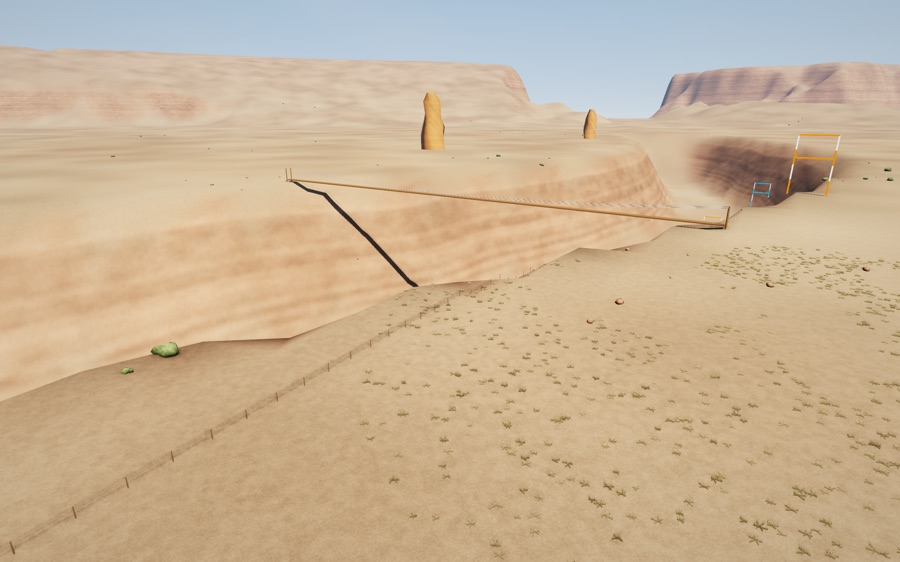
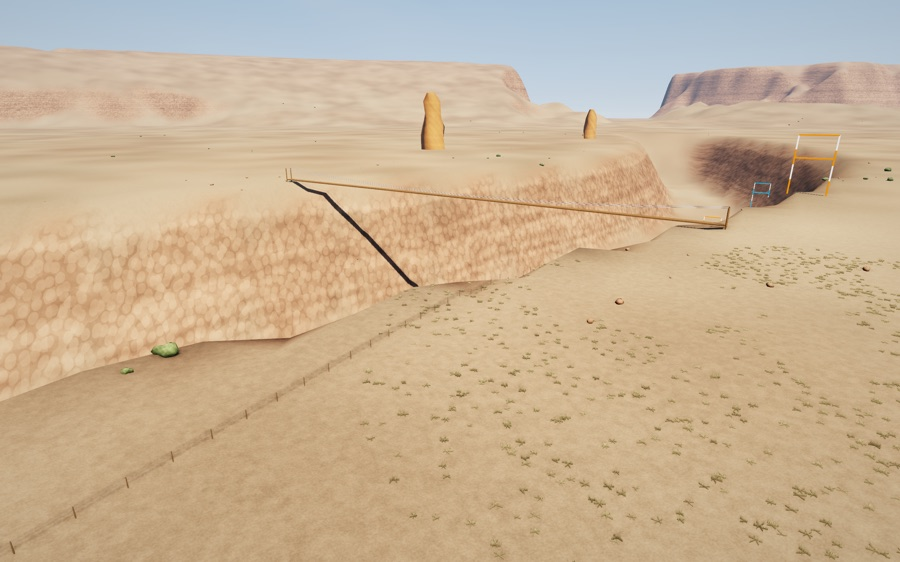
A smoke button in the display, and richer surfaces everywhere
The bar at the top right has a button for smoke next to the one for the
view. Surfaces: windows get frames, a glazing bar, the sky in the glass
and rain marks under the sills; offices and towers stand on shopfronts
with name boards; houses have shutters; roofs are tiled in courses and
timber is boarded. The ground is drawn by what it is: clumped turf,
rippled sand, glinting snow, stony earth, concrete slabs, cobbles, and
fractured rock on steep slopes. Kept close to the old frame cost.

diff --git a/Sources/FormationFlightX/Shaders.swift b/Sources/FormationFlightX/Shaders.swift
@@ -64,6 +64,13 @@ static float fbm5(float2 p) {
     for (int i = 0; i < 5; i++) { s += a * vnoise(p); p = p * 2.07 + 13.0; a *= 0.5; }
     return s / 0.96875;
 }
+/// The cheap kind of cell, for use on every pixel of the ground: one point to a grid square, moved off centre.
+/// x = distance to it, y = a number belonging to the square. Warp `p` first so the squares do not show.
+static float2 jcell(float2 p) {
+    float2 i = floor(p);
+    float2 f = fract(p) - 0.5 - (float2(hash21(i), hash21(i + 17.3)) - 0.5) * 0.5;
+    return float2(length(f), hash21(i + 3.1));
+}
 static float3 tonemap(float3 c) {
     return saturate((c * (2.51 * c + 0.03)) / (c * (2.43 * c + 0.59) + 0.14));
 }
@@ -173,27 +180,74 @@ fragment float4 sceneFS(VOut in [[stage_in]], constant Frame& f [[buffer(1)]], c
             // rock and heaped stone: layers and blotches
             float strata = vnoise(float2(wp.y * 0.5 + 2.0 * fbm2(wp.xz * 0.05), 1.7));
             albedo *= 0.84 + 0.2 * strata + 0.5 * (fbm(wp.xz * 0.35 + wp.y * 0.21) - 0.5);
+        } else if (kind == 10) {
+            // roof tiles: courses up the slope, every other one shifted half a tile
+            float3 T = abs(N.y) > 0.98 ? float3(1.0, 0.0, 0.0) : normalize(cross(float3(0.0, 1.0, 0.0), N));
+            float u = dot(wp, T), row = floor(wp.y / 0.2);
+            float uu = u / 0.28 + 0.5 * fract(row * 0.5);
+            float2 q = float2(fract(uu), fract(wp.y / 0.2));
+            float lod = saturate(1.4 - fwidth(u) * 6.0);
+            float tile = hash21(float2(floor(uu), row));
+            albedo *= mix(1.0, (0.78 + 0.4 * tile) * (1.0 - 0.4 * smoothstep(0.3, 0.0, q.y)) * (1.0 - 0.22 * smoothstep(0.1, 0.0, min(q.x, 1.0 - q.x))), lod);
+            albedo *= 0.86 + 0.28 * fbm2(float2(u, wp.y) * 0.35);              // weather and moss
+        } else if (kind == 11) {
+            // timber: boards side by side, each its own shade, the grain running along them
+            bool lying = abs(N.y) > 0.5;
+            float3 T = lying ? float3(1.0, 0.0, 0.0) : normalize(cross(float3(0.0, 1.0, 0.0), N));
+            float u = dot(wp, T), v = lying ? wp.z : wp.y;
+            float lod = saturate(1.4 - fwidth(u) * 8.0);
+            float board = floor(u / 0.17), qx = fract(u / 0.17);
+            float grain = vnoise(float2(u * 55.0, v * 2.5 + board * 7.0));
+            albedo *= mix(1.0, (0.82 + 0.32 * hash21(float2(board, 2.0))) * (0.86 + 0.28 * grain) * (1.0 - 0.45 * smoothstep(0.08, 0.0, min(qx, 1.0 - qx))), lod);
+            albedo *= 0.9 + 0.2 * fbm2(float2(u, v) * 0.5);
         } else if (abs(N.y) < 0.5) {
             float3 T = normalize(cross(float3(0.0, 1.0, 0.0), N));
             float u = dot(wp, T), v = wp.y;
             float lod = saturate(1.4 - fwidth(u) * 1.2);                          // patterns melt away with distance instead of shimmering
-            float grime = 0.86 + 0.28 * fbm2(float2(u * 0.13, v * 0.31) + 5.0);
+            float grime = 0.86 + 0.28 * vnoise(float2(u * 0.2, v * 0.45) + 5.0);
             if (kind == 2 || kind == 3 || kind == 4) {
                 float cw = kind == 2 ? 3.0 : (kind == 3 ? 1.7 : 3.6), ch = kind == 4 ? 3.0 : 3.4;
-                float2 cell = float2(floor(u / cw), floor(v / ch)), q = float2(fract(u / cw), fract(v / ch));
+                float base = kind == 4 ? 0.0 : 4.4;                              // offices and towers stand on a row of shopfronts
+                float vv = v - base;
+                float2 cell = float2(floor(u / cw), floor(vv / ch)), q = float2(fract(u / cw), fract(vv / ch));
                 float2 lo = kind == 2 ? float2(0.14, 0.3) : (kind == 3 ? float2(0.05, 0.1) : float2(0.3, 0.34));
                 float2 hi = kind == 2 ? float2(0.86, 0.82) : (kind == 3 ? float2(0.95, 0.94) : float2(0.7, 0.8));
                 float aa = 0.02 + fwidth(u) / cw;
-                float win = smoothstep(lo.x - aa, lo.x + aa, q.x) * smoothstep(hi.x + aa, hi.x - aa, q.x) * smoothstep(lo.y - aa, lo.y + aa, q.y) * smoothstep(hi.y + aa, hi.y - aa, q.y);
-                win *= step(1.2, v) * lod;
+                float upper = step(kind == 4 ? 1.2 : 0.0, vv) * lod;
+                float win = smoothstep(lo.x - aa, lo.x + aa, q.x) * smoothstep(hi.x + aa, hi.x - aa, q.x) * smoothstep(lo.y - aa, lo.y + aa, q.y) * smoothstep(hi.y + aa, hi.y - aa, q.y) * upper;
+                float2 fr = float2(0.1 / cw, 0.1 / ch);
+                float outer = smoothstep(lo.x - fr.x - aa, lo.x - fr.x + aa, q.x) * smoothstep(hi.x + fr.x + aa, hi.x + fr.x - aa, q.x) * smoothstep(lo.y - fr.y - aa, lo.y - fr.y + aa, q.y) * smoothstep(hi.y + fr.y + aa, hi.y + fr.y - aa, q.y) * upper;
                 float h = hash21(cell + 0.37);
                 float3 glass = mix(float3(0.012, 0.02, 0.03), albedo * 0.18, kind == 3 ? 0.6 : 0.0) * (0.6 + 0.8 * h);
+                glass += mix(f.horizon.rgb, f.zenith.rgb, q.y) * 0.035 * (0.4 + 0.6 * h);                                             // the sky in the glass
                 if (kind != 3) glass = mix(glass, float3(0.3, 0.29, 0.26), step(0.86, h) * 0.5 * step(q.y, lo.y + (hi.y - lo.y) * (0.4 + 0.6 * fract(h * 7.0))));   // blinds part-way down
-                albedo = mix(albedo * grime, glass, win);
+                float3 wall = albedo * grime;
+                if (kind != 3) wall *= 1.0 - 0.14 * upper * smoothstep(lo.y, lo.y - 0.22, q.y) * step(lo.x, q.x) * step(q.x, hi.x) * step(0.4, fract(h * 3.1));   // rain marks under the sills
+                float3 frame = kind == 4 ? float3(0.72, 0.72, 0.7) : albedo * 0.4;
+                albedo = mix(wall, frame, kind == 3 ? 0.0 : saturate(outer - win));
+                albedo = mix(albedo, glass, win);
+                if (kind == 2) albedo = mix(albedo, frame, win * smoothstep(0.012 + aa, 0.012, abs(q.x - 0.5)));                      // a bar down the middle
                 gloss = mix(gloss, 0.85, win);
                 float lit = step(kind == 4 ? 0.6 : 0.74, fract(h * 13.7)) * dusk * win;
                 glow = float3(1.0, 0.72, 0.38) * lit * (0.5 + 1.2 * fract(h * 5.3));
-                if (kind != 3) albedo *= 1.0 - 0.1 * step(0.94, q.y) * lod;       // a shadow line under each floor
+                if (kind != 3) albedo *= 1.0 - 0.1 * step(0.94, q.y) * upper;     // a shadow line under each floor
+                if (kind == 4) {
+                    // shutters folded back either side of the window, one colour to a house
+                    float sh = upper * smoothstep(lo.y - aa, lo.y + aa, q.y) * smoothstep(hi.y + aa, hi.y - aa, q.y) * (step(lo.x - 0.09, q.x) * step(q.x, lo.x) + step(hi.x, q.x) * step(q.x, hi.x + 0.09));
+                    float hw = hash21(float2(floor(u / 37.0), N.x * 3.0 + N.z * 7.0));
+                    float3 shCol = hw < 0.33 ? float3(0.03, 0.09, 0.05) : (hw < 0.66 ? float3(0.12, 0.05, 0.03) : float3(0.03, 0.06, 0.12));
+                    albedo = mix(albedo, shCol * (0.8 + 0.4 * fract(q.y * 14.0)), sh);
+                } else if (vv < 0.0 && v > 0.0) {
+                    // the ground floor: shop windows between piers, a name board over each
+                    float bay = cw * 2.0, sid = floor(u / bay), hs = hash21(float2(sid, 1.0));
+                    float2 sq = float2(fract(u / bay), v / 4.4);
+                    float shop = smoothstep(0.06, 0.075, sq.x) * smoothstep(0.94, 0.925, sq.x) * step(0.13, sq.y) * step(sq.y, 0.72) * lod;
+                    float board = step(0.77, sq.y) * step(sq.y, 0.95) * step(0.04, sq.x) * step(sq.x, 0.96) * lod * step(0.3, fract(hs * 5.1));
+                    albedo = mix(wall * 0.8, float3(0.015, 0.02, 0.028) + f.horizon.rgb * 0.03, shop);
+                    albedo = mix(albedo, 0.45 * fract(hs * float3(1.0, 7.3, 13.7)) + 0.04, board);
+                    gloss = mix(gloss, 0.85, shop);
+                    glow = float3(1.0, 0.85, 0.62) * (shop * dusk * 0.55 * step(0.35, fract(hs * 3.3)));
+                }
             } else if (kind == 5) {
                 float rib = cos(u * 31.4);
                 N = normalize(N + T * rib * 0.3 * lod);
@@ -212,7 +266,7 @@ fragment float4 sceneFS(VOut in [[stage_in]], constant Frame& f [[buffer(1)]], c
                 albedo = mix(albedo, float3(0.4, 0.38, 0.34), 0.5 * mortar);
             }
         } else if (N.y > 0.5) {
-            float n = fbm(wp.xz * 0.9);
+            float n = fbm2(wp.xz * 0.9);
             albedo = (kind == 5 ? albedo * (0.9 + 0.1 * cos(wp.x * 31.4)) : mix(albedo, float3(0.16, 0.16, 0.17), 0.55)) * (0.8 + 0.4 * n);
         }
     }
@@ -267,11 +321,67 @@ fragment float4 sceneFS(VOut in [[stage_in]], constant Frame& f [[buffer(1)]], c
         float3 bump = float3(h0 - hx, 0.0, h0 - hz);
         float bumpAmt = 0.6 * mott;
 
+        // what the ground is made of, read from its colour: turf, snow, sand, or bare earth, gravel and paving
+        float3 c0 = pow(in.col.rgb, float3(2.2));
+        float mx = max(c0.r, max(c0.g, c0.b)), mn = min(c0.r, min(c0.g, c0.b)), sat = (mx - mn) / max(mx, 0.001);
+        float wGrass = smoothstep(0.0, 0.04, c0.g - max(c0.r, c0.b));
+        float wSnow = smoothstep(0.5, 0.75, mn) * (1.0 - wGrass);
+        float wSand = (1.0 - wGrass) * (1.0 - wSnow) * smoothstep(0.2, 0.4, sat) * smoothstep(0.85, 0.65, sat) * step(c0.b, c0.r) * smoothstep(0.2, 0.4, mx);
+        float wBare = (1.0 - wGrass) * (1.0 - wSnow) * (1.0 - wSand);
+        float nf = exp(-dist * 0.03), mf = exp(-dist * 0.007);
+        float3 relief = float3(0.0);
+        float wob = detail;
+        float2 pw = p + float2(wob, 1.7 * wob) * 0.7;                                   // the ground plan, pulled about a little
+        if (wGrass > 0.01) {
+            // turf grows in clumps, dries out in patches, and close to shows its tufts
+            albedo *= mix(1.0, 0.78 + 0.44 * smoothstep(0.3, 0.7, detail), wGrass * mf * 0.8);
+            albedo = mix(albedo, albedo * float3(1.3, 1.12, 0.7), wGrass * 0.45 * smoothstep(0.55, 0.8, macro));
+            if (nf > 0.02) { float2 tf = jcell(pw * 7.0); albedo *= mix(1.0, 0.74 + 0.5 * tf.x + 0.2 * (tf.y - 0.5), wGrass * nf); }
+        }
+        if (wSand > 0.01) {
+            // sand: wind ripples, grains
+            float ph = dot(p, float2(0.8, 0.6)) * 13.0 + 4.0 * wob;
+            albedo *= 1.0 + wSand * nf * (0.03 * sin(ph) + 0.12 * (hash21(floor(p * 90.0)) - 0.5));
+            albedo *= 1.0 + wSand * mf * 0.16 * (detail - 0.5);
+            relief += float3(0.8, 0.0, 0.6) * (cos(ph) * 0.06 * wSand * nf);
+        }
+        if (wSnow > 0.01) {
+            // snow: crystals that catch the sun
+            float glint = pow(vnoise(p * 85.0 + V.xz * 22.0), 22.0);
+            glow += f.sunColor.rgb * (glint * 2.5 * wSnow * nf * saturate(L.y * 3.0));
+        }
+        if (wBare > 0.01) {
+            int paving = int(f.pano.x + 0.5);
+            if (paving == 1) {
+                // concrete laid in slabs, stained where things have stood
+                float2 q = fract(p / 3.2), id = floor(p / 3.2);
+                float joint = max(smoothstep(0.012, 0.0, min(q.x, 1.0 - q.x)), smoothstep(0.012, 0.0, min(q.y, 1.0 - q.y)));
+                float lodp = saturate(1.5 - fwidth(p.x) * 2.0);
+                albedo *= mix(1.0, (0.9 + 0.2 * hash21(id)) * (1.0 - 0.45 * joint * lodp), wBare);
+                albedo *= 1.0 - 0.3 * wBare * smoothstep(0.6, 0.85, vnoise(p * 0.21 + 30.0));
+                albedo *= 1.0 + wBare * nf * 0.16 * (hash21(floor(p * 40.0)) - 0.5);
+            } else if (paving == 2) {
+                // cobbles: courses of stones, every other course shifted, each stone its own grey
+                float2 q = p * 4.5;
+                float row = floor(q.y);
+                q.x += 0.5 * fract(row * 0.5) + 0.3 * hash21(float2(row, 5.0));
+                float2 fq = fract(q);
+                float edge = min(min(fq.x, 1.0 - fq.x), min(fq.y, 1.0 - fq.y));
+                float lodp = saturate(1.5 - fwidth(p.x) * 5.0);
+                albedo *= mix(1.0, (0.78 + 0.44 * hash21(floor(q))) * (1.0 - 0.5 * smoothstep(0.1, 0.02, edge)), wBare * lodp);
+            } else {
+                // earth and gravel: patches, and stones lying on it
+                albedo *= mix(1.0, 0.92 + 0.16 * detail, wBare * mf);
+                if (nf > 0.02) { float2 pb = jcell(pw * 6.0); albedo *= mix(1.0, 0.82 + 0.4 * pb.y, smoothstep(0.34, 0.2, pb.x) * wBare * nf); }
+            }
+        }
         // steep ground is rock: layered, cracked, darker in the gullies
         float steep = smoothstep(0.86, 0.62, N.y);
         if (steep > 0.0) {
+            float2 blk = jcell(float2(pw.x + pw.y, in.wp.y + 2.0 * wob) * 0.3);
+            albedo *= 1.0 + steep * ((blk.y - 0.5) * 0.3 - 0.2 * smoothstep(0.45, 0.6, blk.x));
             float strata = vnoise(float2(in.wp.y * 0.42 + 3.0 * fbm2(p * 0.013), 1.7));
-            float crack = fbm(float2(p.x + p.y, in.wp.y * 2.0) * 0.11);
+            float crack = fbm2(float2(p.x + p.y, in.wp.y * 2.0) * 0.11);
             albedo *= 1.0 + steep * ((strata - 0.5) * 0.5 + (crack - 0.5) * 0.5);
             bumpAmt = mix(bumpAmt, 1.3, steep);
         }
@@ -311,7 +421,7 @@ fragment float4 sceneFS(VOut in [[stage_in]], constant Frame& f [[buffer(1)]], c
                 albedo = mix(albedo, dirt, inside);
             }
         }
-        N = normalize(N + bump * (bumpAmt * bumpFade));
+        N = normalize(N + bump * (bumpAmt * bumpFade) + relief * (1.0 - inside));
     } else if (dot(N, V) < 0.0) {
         N = -N;
     }

diff --git a/Sources/FormationFlightX/Game.swift b/Sources/FormationFlightX/Game.swift
@@ -27,6 +27,7 @@ struct HUDState {
     var mapHome: SIMD2<Float> = .zero       // the pilots' position: x to the right, y ahead, metres
     var mapNorth: Float = 0                 // where north is, clockwise from straight ahead
     var onboard = false
+    var smoke = false
 }
 
 /// Another aircraft on the map. `name` is set for a real pilot and empty for a computer partner.
@@ -395,6 +396,8 @@ final class Game {
         if isFPV { cameraMode = 2 } else if cameraMode == 2 { cameraMode = 1 }
         camSnap = true
     }
+    /// The button in the display, and the key: smoke on, smoke off.
+    func toggleSmoke() { smokeOn.toggle(); say(smokeOn ? "Smoke on" : "Smoke off") }
     /// The button in the display: from on board to behind the aircraft and back.
     func toggleFPV() {
         if site.panorama != nil { cameraMode = 0; say("Photo sites use the pilot camera only"); return }
@@ -491,7 +494,7 @@ final class Game {
         case 31: nextFormation()
         case 32: takeLead()
         case 34: nextSpacing()
-        case 16: smokeOn.toggle(); say(smokeOn ? "Smoke on" : "Smoke off")
+        case 16: toggleSmoke()
         case 37: input.lowRates.toggle(); say(input.lowRates ? String(format: "Low rates (%.0f%%)", input.lowRateInUse * 100) : "High rates")
         case 24: trim(1)
         case 27: trim(-1)
@@ -929,6 +932,7 @@ final class Game {
         let dirs = ["N", "NE", "E", "SE", "S", "SW", "W", "NW"]
         s.wind = env.windSpeed < 0.1 ? "Calm" : String(format: "%@ %.0f m/s", dirs[Int((env.windFrom + 22.5) / 45) % 8], env.windSpeed)
         s.onboard = cameraMode == 2
+        s.smoke = smokeOn
         s.camera = Game.cameraNames[cameraMode] + (cameraMode == 0 ? " · " + Game.zoomNames[zoomMode] : "")
         s.mode = spec.modes.count > 1 ? spec.modes[flightMode] : ""
         s.input = autopilotOn ? "Demo pilot" : input.source

diff --git a/Sources/FormationFlightX/Scenery.swift b/Sources/FormationFlightX/Scenery.swift
@@ -415,8 +415,10 @@ extension Terrain {
         b.append(m, M4.translation(p) * M4.rotation(facing, V3(0, 1, 0)))
     }
 
-    private func building(_ b: inout MeshBuilder, at c: V3, size: V3, wall: V4, roof: V4, facing: Float, porch: Bool) {
+    private func building(_ b: inout MeshBuilder, at c: V3, size: V3, wall plainWall: V4, roof plainRoof: V4, facing: Float, porch: Bool) {
         var m = MeshBuilder()
+        // boarded walls, a tiled roof: the shader draws both (see the kinds of surface in Structures.swift)
+        let wall = V4(plainWall.x, plainWall.y, plainWall.z, 11 + min(plainWall.w, 0.9)), roof = V4(plainRoof.x, plainRoof.y, plainRoof.z, 10 + min(plainRoof.w, 0.9))
         let w = size.x / 2, d = size.z / 2, h = size.y, ridge = h + size.z * 0.28
         let trim = cg(0.92, 0.92, 0.9), glass = cg(0.2, 0.3, 0.4, 1)
         m.box(center: V3(0, 0.15, 0), size: V3(size.x + 0.2, 0.3, size.z + 0.2), color: cg(0.5, 0.5, 0.5))
@@ -436,7 +438,7 @@ extension Terrain {
         for z in [-d * 0.4, d * 0.4] { m.box(center: V3(-w - 0.04, 1.7, z), size: V3(0.06, 0.95, 1.1), color: glass) }
         m.box(center: V3(-w * 0.5, ridge + 0.2, d * 0.3), size: V3(0.5, 1.1, 0.5), color: cg(0.45, 0.25, 0.2))
         if porch {
-            m.quad(V3(-w, h - 0.1, -d), V3(w, h - 0.1, -d), V3(w, h - 0.55, -d - 2.4), V3(-w, h - 0.55, -d - 2.4), shade(roof, 1.15))
+            m.quad(V3(-w, h - 0.1, -d), V3(w, h - 0.1, -d), V3(w, h - 0.55, -d - 2.4), V3(-w, h - 0.55, -d - 2.4), roof)
             var x = -w + 0.2
             while x <= w - 0.1 {
                 m.box(center: V3(x, (h - 0.5) / 2, -d - 2.2), size: V3(0.12, h - 0.5, 0.12), color: trim)

diff --git a/Sources/FormationFlightX/SiteParts.swift b/Sources/FormationFlightX/SiteParts.swift
@@ -36,8 +36,9 @@ extension Terrain {
     }
 
     /// A pitched roof over a rectangle whose eaves are at `c`; the ridge runs the long way. Hipped, the ends slope too.
-    func roof(_ c: V3, _ sx: Float, _ sz: Float, rise: Float, yaw: Float, _ color: V4, gable: V4, over: Float = 0.5, hip: Bool = false) {
-        if sz > sx { roof(c, sz, sx, rise: rise, yaw: yaw + .pi / 2, color, gable: gable, over: over, hip: hip); return }
+    func roof(_ c: V3, _ sx: Float, _ sz: Float, rise: Float, yaw: Float, _ plain: V4, gable: V4, over: Float = 0.5, hip: Bool = false, tiled: Bool = true) {
+        if sz > sx { roof(c, sz, sx, rise: rise, yaw: yaw + .pi / 2, plain, gable: gable, over: over, hip: hip, tiled: tiled); return }
+        let color = tiled && plain.w < 1.5 ? surf(plain, 10) : plain
         let q = yq(yaw), w = sx / 2 + over, d = sz / 2 + over, rx = hip ? max(w - d, 0) : w
         func P(_ x: Float, _ y: Float, _ z: Float) -> V3 { c + q.act(V3(x, y, z)) }
         decor.quad(P(-w, 0, d), P(w, 0, d), P(rx, rise, 0), P(-rx, rise, 0), color)
@@ -329,7 +330,7 @@ extension Terrain {
             let p = V3(x, g, z) + q.act(V3(s * sx / 2, 0, t * sz / 2))
             decor.cylinder(from: p, to: p + V3(0, poles, 0), r0: 0.05, r1: 0.05, seg: 5, color: V4(0.4, 0.3, 0.2, 0.05))
         } } }
-        roof(V3(x, g + poles, z), sx, sz, rise: poles > 0 ? 0.9 : min(sx, sz) * 0.55, yaw: yaw, cloth, gable: cloth, over: 0.2)
+        roof(V3(x, g + poles, z), sx, sz, rise: poles > 0 ? 0.9 : min(sx, sz) * 0.55, yaw: yaw, cloth, gable: cloth, over: 0.2, tiled: false)
         guardBox(V3(x, g + (poles + 0.9) / 2, z), V3(sx, poles + 0.9, sz), yaw: yaw)
     }
 

diff --git a/Sources/FormationFlightX/UI.swift b/Sources/FormationFlightX/UI.swift
@@ -185,6 +185,8 @@ struct HUDView: View {
                         HStack(spacing: 5) {
                             BarButton(icon: s.onboard ? "video.fill" : "airplane", help: s.onboard ? "View from behind the aircraft" : "FPV: view from on board") { m.game.toggleFPV() }
                                 .overlay(alignment: .bottom) { Text(s.onboard ? "FPV" : "3RD").font(.system(size: 6.5, weight: .heavy)).foregroundColor(Theme.amber).offset(y: 1).allowsHitTesting(false) }
+                            BarButton(icon: s.smoke ? "smoke.fill" : "smoke", help: s.smoke ? "Smoke off" : "Smoke on") { m.game.toggleSmoke() }
+                                .overlay(alignment: .bottom) { Text(s.smoke ? "ON" : "OFF").font(.system(size: 6.5, weight: .heavy)).foregroundColor(s.smoke ? Theme.amber : Theme.dim).offset(y: 1).allowsHitTesting(false) }
                             BarButton(icon: s.unread > 0 ? "bubble.left.and.bubble.right.fill" : "bubble.left.and.bubble.right", help: "Lobby: chat and voice (Return)") { m.game.cameFromMenu = false; m.overlay = m.overlay == .lobby ? .none : .lobby }
                             BarButton(icon: "person.3.fill", help: "Options: pilots, hosting and joining") { m.game.cameFromMenu = false; m.overlay = m.overlay == .options ? .none : .options }
                             BarButton(icon: "wind", help: "Wind, weather and time of day") { m.game.cameFromMenu = false; m.overlay = m.overlay == .environment ? .none : .environment }

diff --git a/Sources/FormationFlightX/Structures.swift b/Sources/FormationFlightX/Structures.swift
@@ -11,7 +11,8 @@ struct SolidBox {
     var c: V3, half: V3
     var yaw: Float = 0
     var color: V4
-    var kind = 0            // surface: 0 plain, 2 offices, 3 glass tower, 4 houses, 5 corrugated sheet, 6 concrete panels, 7 brick or stone
+    var kind = 0            // surface: 0 plain, 2 offices, 3 glass tower, 4 houses, 5 corrugated sheet, 6 concrete panels, 7 brick or stone,
+                            // 8 a lamp, 9 rock, 10 roof tiles, 11 timber boards
     var rot: simd_quatf? = nil
     var round = false
     var hidden = false      // hit but not drawn: something in `decor` shows it
@@ -248,7 +249,9 @@ extension Terrain {
         for b in boxes where !b.hidden {
             let q = b.orientation
             // the shader reads the kind of surface from the whole part of alpha, the gloss from the fraction
-            let col = V4(b.color.x, b.color.y, b.color.z, Float(b.kind) + min(b.color.w, 0.9))
+            // anything plain and brown is timber, and is drawn boarded
+            let c = b.color, timber = b.kind == 0 && c.x > c.y * 1.15 && c.y > c.z * 1.1 && c.x > 0.25 && c.x < 0.62
+            let col = V4(c.x, c.y, c.z, Float(timber ? 11 : b.kind) + min(c.w, 0.9))
             if b.round {
                 m.cylinder(from: b.c - V3(0, b.half.y, 0), to: b.c + V3(0, b.half.y, 0), r0: b.half.x, r1: b.half.x, seg: b.half.x > 3 ? 24 : 12, color: col)
                 continue

diff --git a/Sources/FormationFlightX/Renderer.swift b/Sources/FormationFlightX/Renderer.swift
@@ -363,6 +363,11 @@ final class Renderer: NSObject, MTKViewDelegate {
         fu.screen = V4(1 / Float(rw), 1 / Float(rh), Float(shadow1Size), s0Half)
         let tint = Game.photoTints[game.photoLight]
         fu.pano = V4(tint.x, tint.y, tint.z, game.photoLight > 0 ? 1 : 0)      // photographs are shown as they are unless the light is graded
+        if !pano {
+            // 3D sites have no photograph to grade: the slot says what bare ground here is paved with (0 nothing, 1 concrete slabs, 2 cobbles)
+            let pal = game.site.palette
+            fu.pano = V4(pal == 28 ? 1 : (pal == 33 ? 2 : 0), 0, 0, 0)
+        }
 
         // frustum side planes, for culling grass and trees
         let m = fu.viewProj

diff --git a/README.md b/README.md
@@ -94,7 +94,7 @@ What these are and are not:
 
 **Behind the menus** the site is alive: five of the aircraft you have chosen fly it in the formation you have chosen, trailing smoke, and a camera follows them, cutting between a chase view, a view from alongside, a fly-past seen from the ground, a slow circle round the flight and a view from ahead. Change the aircraft, the site or the formation and the flight changes with it. Your own aircraft waits where you left it.
 
-**Smoke** is drawn as a trail, not as puffs: a soft ribbon that leaves the aircraft, drifts with the wind, widens and thins out over five seconds. A small model lays a thin trail, a large one a broad one. Your own smoke and the other pilots' are drawn the same way.
+**Smoke** is switched on and off with the second button of the bar at the top right (or its key), and is drawn as a trail, not as puffs: a soft ribbon that leaves the aircraft, drifts with the wind, widens and thins out over five seconds. A small model lays a thin trail, a large one a broad one. Your own smoke and the other pilots' are drawn the same way.
 
 ## Flying sites
 
@@ -132,7 +132,7 @@ Twenty-nine sites, none of them from FlightCore OSX. The site browser filters by
 | Tundra | Winter | Snow-patched grass and black meltwater pools; a research station on legs |
 | Ski Resort | Winter | Three pistes through snowy forest, a chairlift with a solid cable, chalets |
 
-**How the sites are drawn.** Buildings get their windows, cladding, brickwork and concrete panels from the shader, so a tower is one box and still has a thousand windows, some of them lit after sunset. Steep ground turns to layered rock. Farmland round the open sites is divided into fields of different crops. Lamps, runway lights and lighthouse lanterns glow at dusk. The terrain grid is 16 m (it was 24 m).
+**How the sites are drawn.** There are no picture textures: every surface is drawn by the shader from what it is. Buildings get framed windows (some lit after sunset, some with blinds down), shopfronts with name boards on the ground floor of offices and towers, shutters on houses, cladding, brickwork and concrete panels, so a tower is one box and still has a thousand windows. Roofs are tiled in courses, timber is boarded with the grain showing. The ground knows what it is from its colour: turf grows in clumps and dries in patches, sand has wind ripples and grain, snow has drifts and crystals that glint in the sun, bare earth has stones lying on it, the yards are concrete slabs with stains and the Old Town is cobbled. Steep ground turns to layered, fractured rock. Farmland round the open sites is divided into fields of different crops. Lamps, runway lights and lighthouse lanterns glow at dusk. The terrain grid is 16 m.
 
 **Racing.** On a race track the next gate glows. Fly through the first gate to start the clock, then through the gates in order; a gate out of order does not count. Every lap's time is shown, your best is kept until the site changes, and when you fly with others each lap is announced in the chat. The host's **Start Session** puts everyone on the launch line at once, which makes it a race. Gate posts are solid.
 
